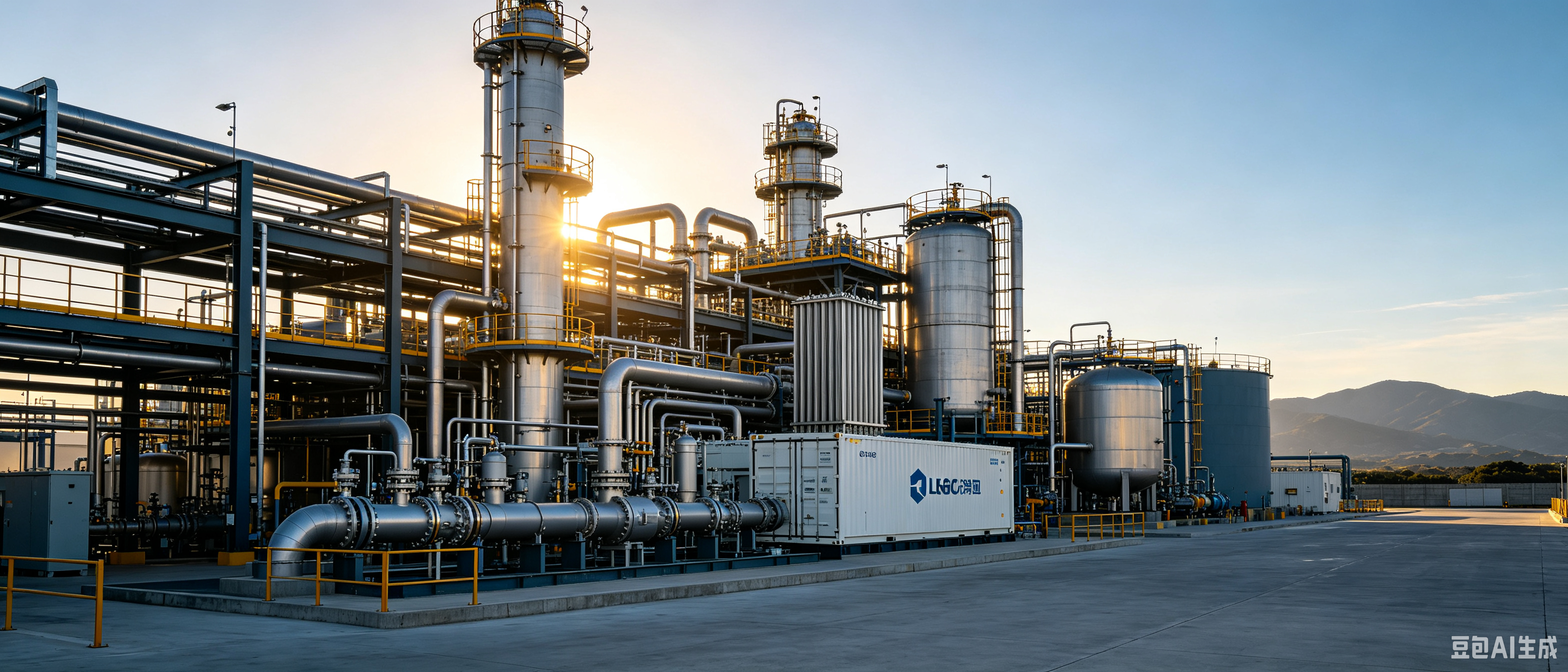
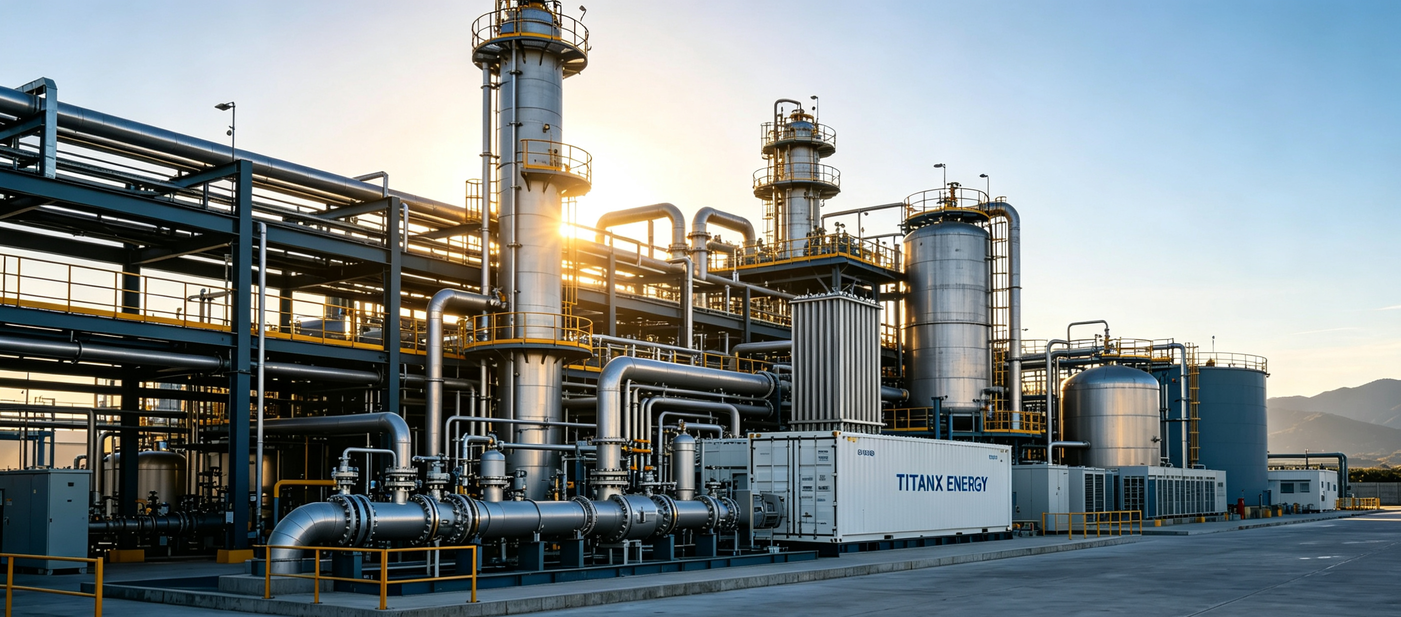
Update homepage hero typography and background image

diff --git a/app/globals.css b/app/globals.css
@@ -227,7 +227,7 @@ HERO
 .hero h1 {
   margin: 0;
   color: var(--white);
-  font-size: clamp(48px, 7vw, 88px);
+  font-size: clamp(36px, 5vw, 64px);
   line-height: 0.98;
   letter-spacing: -3px;
   max-width: 900px;
